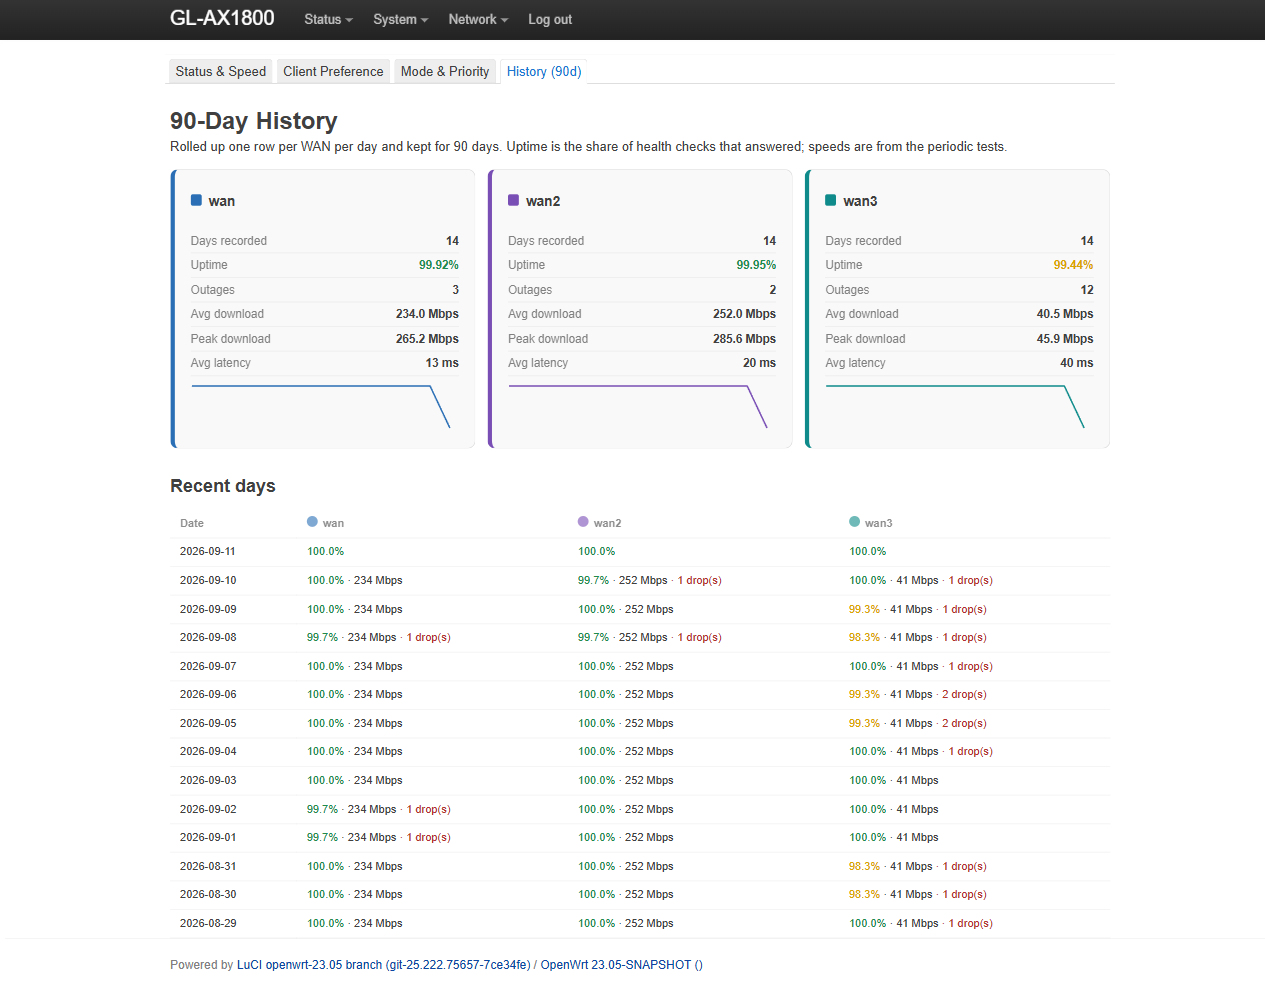
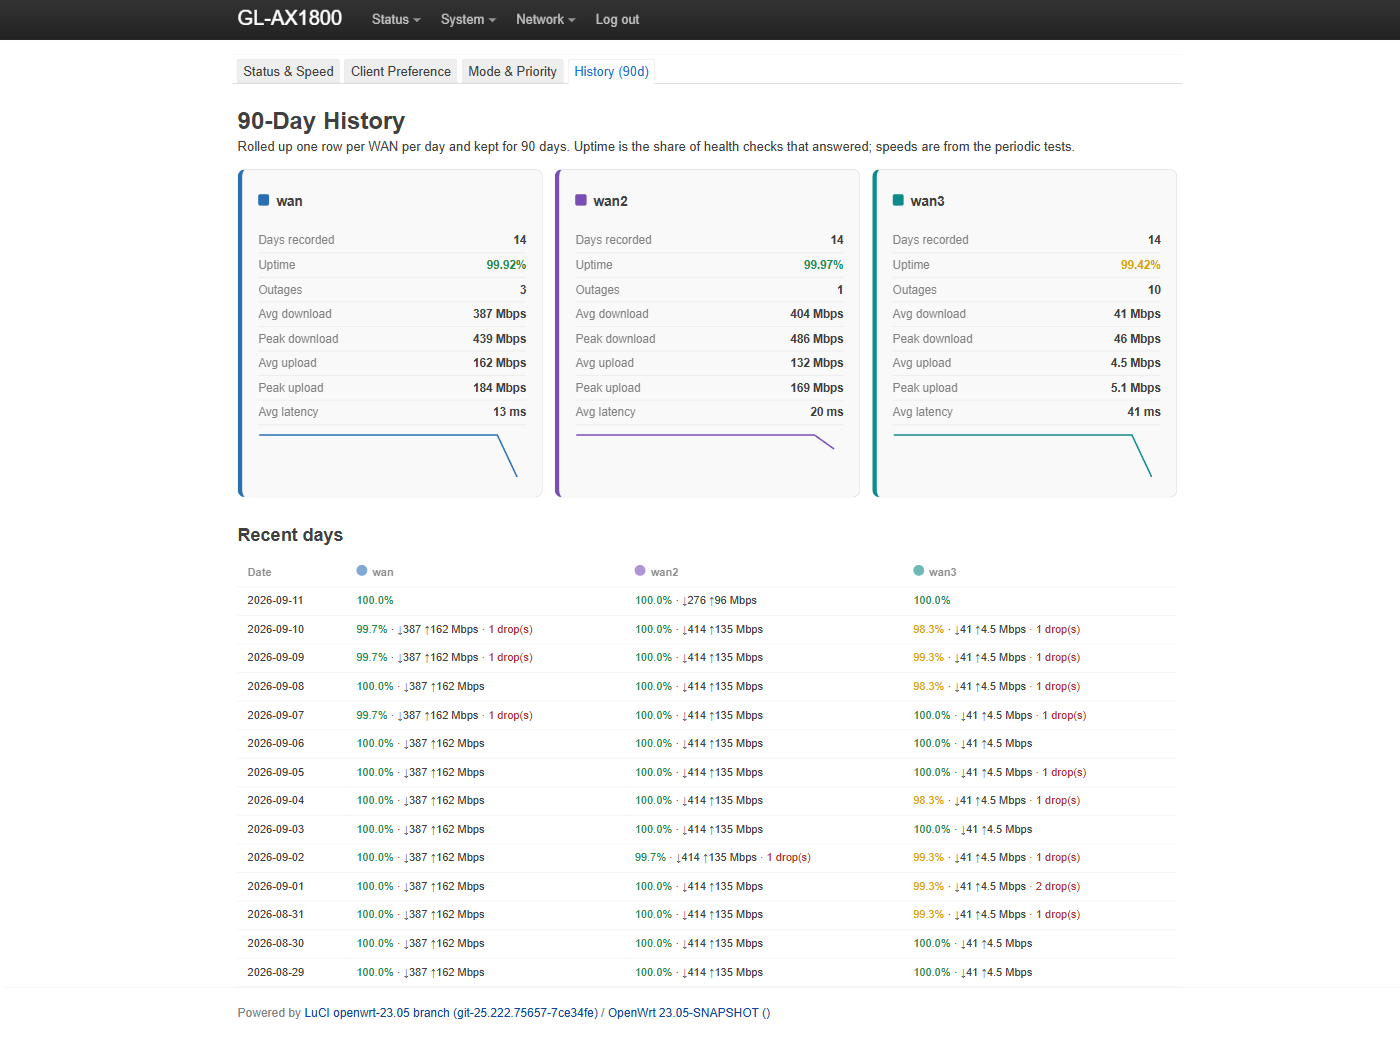
History up/down split, whole-number formatting, client badge + poison guard
- History: separate Avg/Peak upload from download (cards) and show both in the
  recent-days table (down/up).
- Numbers: whole at >=10 Mbps, one decimal below, across status + history.
- Client rules badge: 'enabled' unset means ON (matches engine + Client page),
  so an active rule no longer shows OFF.
- New clients write enabled explicitly (rmempty=false).
- Speed history: clamp implausible readings (>200 Gbps) in the rollup so a
  glitch can't poison the daily totals; scrub-safe going forward.

diff --git a/htdocs/luci-static/resources/view/multikmwan/history.js b/htdocs/luci-static/resources/view/multikmwan/history.js
@@ -25,6 +25,8 @@ var CSS = '' +
 var PALETTE = ['#2a6fb5', '#1f8b4c', '#d9a400', '#b3312c', '#7a4fb5', '#0f8b8b'];
 
 function num(v) { var n = parseFloat(v); return isNaN(n) ? 0 : n; }
+// Speeds: whole numbers at 10 Mbps and up, one decimal below 10.
+function fmtSpeed(v) { var n = num(v); return n >= 10 ? String(Math.round(n)) : n.toFixed(1); }
 
 // Group flat day rows into { wan: [rows...] } and a sorted date list.
 function group(days) {
@@ -107,10 +109,13 @@ return view.extend({
 			var rows = g.byWan[wn];
 			var up = uptimePct(rows);
 			var outages = 0, dlmax = 0, dlsum = 0, dln = 0, rttsum = 0, rttn = 0;
+				var ulmax = 0, ulsum = 0, uln = 0;
 			rows.forEach(function(r) {
 				outages += num(r.outages);
 				dlmax = Math.max(dlmax, num(r.dl_max));
 				if (num(r.dl_avg) > 0) { dlsum += num(r.dl_avg); dln++; }
+					ulmax = Math.max(ulmax, num(r.ul_max));
+					if (num(r.ul_avg) > 0) { ulsum += num(r.ul_avg); uln++; }
 				if (num(r.rtt_avg) > 0) { rttsum += num(r.rtt_avg); rttn++; }
 			});
 			function row(k, v, cls) {
@@ -125,8 +130,10 @@ return view.extend({
 				row(_('Days recorded'), String(rows.length)),
 				row(_('Uptime'), up === null ? '-' : up.toFixed(2) + '%', upClass(up)),
 				row(_('Outages'), String(outages)),
-				row(_('Avg download'), dln ? (dlsum / dln).toFixed(1) + ' Mbps' : '-'),
-				row(_('Peak download'), dlmax ? dlmax.toFixed(1) + ' Mbps' : '-'),
+				row(_('Avg download'), dln ? fmtSpeed(dlsum / dln) + ' Mbps' : '-'),
+				row(_('Peak download'), dlmax ? fmtSpeed(dlmax) + ' Mbps' : '-'),
+					row(_('Avg upload'), uln ? fmtSpeed(ulsum / uln) + ' Mbps' : '-'),
+					row(_('Peak upload'), ulmax ? fmtSpeed(ulmax) + ' Mbps' : '-'),
 				row(_('Avg latency'), rttn ? (rttsum / rttn).toFixed(0) + ' ms' : '-'),
 				E('div', { 'style': 'margin-top:8px' }, [ trend(rows, g.dates, color[wn]) ])
 			]);
@@ -149,7 +156,8 @@ return view.extend({
 					E('span', { 'class': upClass(up) },
 						up === null ? '-' : up.toFixed(1) + '%'),
 					E('span', { 'class': 'mk-dim' },
-						num(r.dl_avg) ? '  ·  ' + num(r.dl_avg).toFixed(0) + ' Mbps' : ''),
+						(num(r.dl_avg) || num(r.ul_avg))
+							? '  ·  ↓' + fmtSpeed(r.dl_avg) + ' ↑' + fmtSpeed(r.ul_avg) + ' Mbps' : ''),
 					num(r.outages) > 0 ? E('span', { 'class': 'mh-up-bad' },
 						'  ·  ' + r.outages + _(' drop(s)')) : ''
 				]));

diff --git a/htdocs/luci-static/resources/view/multikmwan/overview.js b/htdocs/luci-static/resources/view/multikmwan/overview.js
@@ -56,6 +56,12 @@ var prev = {};
 
 function num(v) { var n = parseFloat(v); return isNaN(n) ? null : n; }
 function fmt1(v) { var n = num(v); return n === null ? '-' : n.toFixed(1); }
+// Speeds: whole numbers at 10 Mbps and up, one decimal below 10.
+function fmtSpeed(v) {
+	var n = num(v);
+	if (n === null) return '-';
+	return n >= 10 ? String(Math.round(n)) : n.toFixed(1);
+}
 
 function ago(epoch, now) {
 	var e = num(epoch);
@@ -154,12 +160,12 @@ return view.extend({
 						E('b', {}, num(w.loss) !== null ? w.loss + '%' : '-') ]),
 					E('div', { 'class': 'mk-stat' }, [ E('span', {}, _('live now')),
 						E('b', {}, live
-							? '↓' + fmt1(live.down) + '  ↑' + fmt1(live.up) + ' Mbps'
+							? '↓' + fmtSpeed(live.down) + '  ↑' + fmtSpeed(live.up) + ' Mbps'
 							: '…') ])
 				]),
 				E('div', { 'class': 'mk-speed' }, sp
-					? [ E('span', {}, [ E('b', {}, fmt1(sp.down)), _(' down') ]),
-					    E('span', {}, [ E('b', {}, fmt1(sp.up)), _(' up Mbps') ]),
+					? [ E('span', {}, [ E('b', {}, fmtSpeed(sp.down)), _(' down') ]),
+					    E('span', {}, [ E('b', {}, fmtSpeed(sp.up)), _(' up Mbps') ]),
 					    E('span', { 'class': 'mk-dim' }, _('tested ') + ago(sp.epoch, now)) ]
 					: [ E('span', { 'class': 'mk-dim' }, spNote) ]),
 				E('div', { 'class': 'mk-bar' }, [
@@ -187,8 +193,10 @@ return view.extend({
 		var rows = clients.map(function(c) {
 			var role = c.mode && c.mode !== 'order' ? c.mode : null;
 			var order = (c.order || '').trim().split(/\s+/).filter(Boolean);
-			var live = c.live && !prefOff;
-			var badge = c.enabled !== '1'
+			// enabled defaults to on: only an explicit '0' means off (matches the
+			// engine's config_get_bool default and the Client Preference page).
+			var off = (c.enabled === '0');
+			var badge = off
 				? { t: _('off'), cls: 'mk-idle' }
 				: (prefOff ? { t: _('preference off'), cls: 'mk-warn' }
 				           : (c.live ? { t: _('active'), cls: 'mk-ok' }

diff --git a/htdocs/luci-static/resources/view/multikmwan/clients.js b/htdocs/luci-static/resources/view/multikmwan/clients.js
@@ -41,6 +41,7 @@ return view.extend({
 		o = s.option(form.Flag, 'enabled', _('On'));
 		o.default = '1';
 		o.editable = true;
+		o.rmempty = false;
 		o.width = '60px';
 
 		o = s.option(form.Value, 'src', _('Device'),
